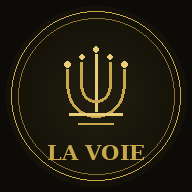
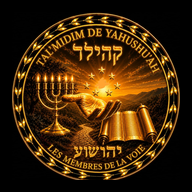
Add files via upload

diff --git a/app.html b/app.html
@@ -209,12 +209,7 @@ nav button.actif::before{content:"";position:absolute;top:0;width:34px;height:3p
 <!-- ================= SPLASH ================= -->
 <div id="splash">
   <div class="sceau">
-    <svg viewBox="0 0 64 64" fill="none" stroke="#c9a84c" stroke-width="2" stroke-linecap="round">
-      <path d="M32 14v26M22 20v8M42 20v8M14 24v6M50 24v6"/>
-      <path d="M14 30c0 5 4 8 8 8M50 30c0 5-4 8-8 8M22 28c0 4 4 7 10 7s10-3 10-7"/>
-      <path d="M20 44h24M24 48h16"/>
-      <path d="M26 56c2-3 10-3 12 0" opacity=".8"/>
-    </svg>
+    <img src="icon-512.png" alt="Sceau Les Membres de La Voie" style="width:100%;height:100%;border-radius:50%;object-fit:cover">
   </div>
   <div class="splash-titre">LA VOIE</div>
   <div class="splash-sep">✦</div>
@@ -234,11 +229,7 @@ nav button.actif::before{content:"";position:absolute;top:0;width:34px;height:3p
   </button>
   <div class="logo-mini">
     <div class="cercle">
-      <svg viewBox="0 0 64 64" fill="none" stroke="#c9a84c" stroke-width="2.6" stroke-linecap="round">
-        <path d="M32 16v24M22 22v7M42 22v7M15 27v5M49 27v5"/>
-        <path d="M15 32c0 5 4 8 9 8M49 32c0 5-4 8-9 8"/>
-        <path d="M20 44h24"/>
-      </svg>
+      <img src="icon-192.png" alt="La Voie" style="width:100%;height:100%;border-radius:50%;object-fit:cover">
     </div>
   </div>
   <button class="btn-icone" id="btn-notif" aria-label="Annonces">
